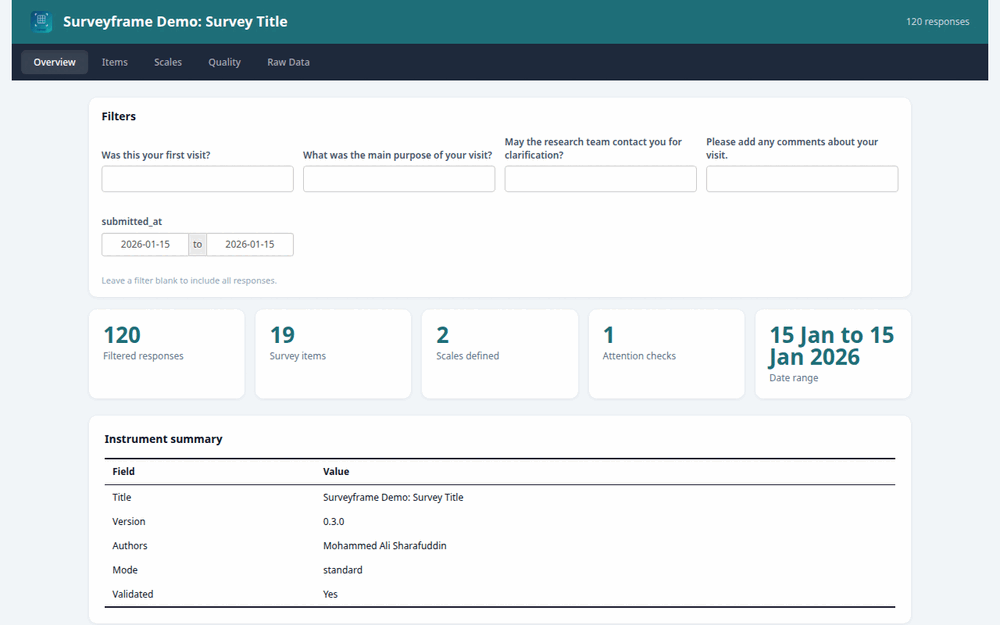
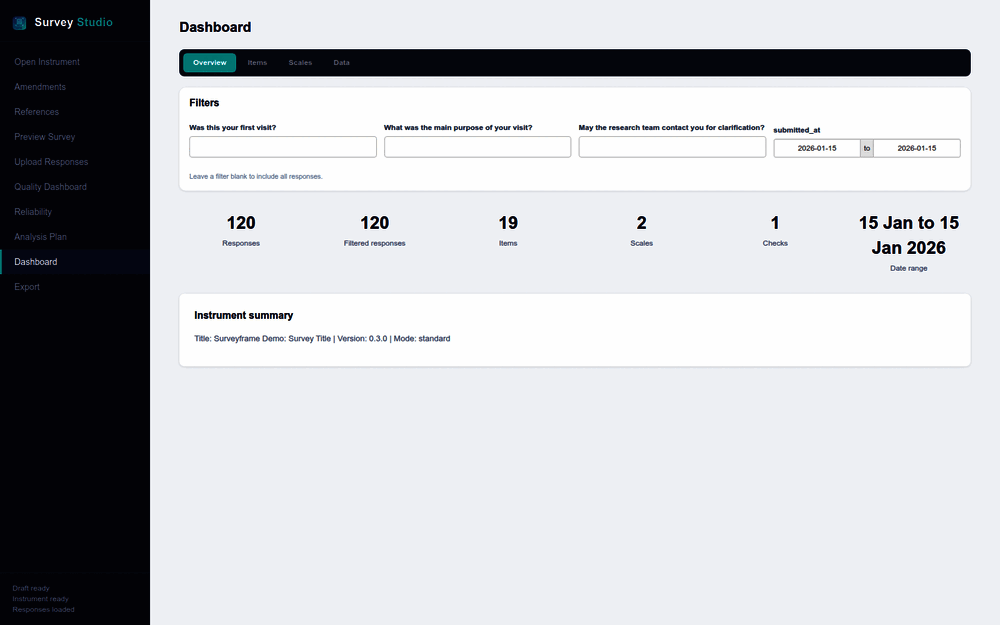
Docs: the GUI guide's dashboard figure is Studio's Dashboard screen

diff --git a/NEWS.md b/NEWS.md
@@ -796,6 +796,9 @@ style.
   textarea question with 12 or fewer distinct answers was offered as a
   filter, as `open_comment` in the `input_types` demo was.
 
+* **The SurveyStudio guide shows Studio's Dashboard screen**, with its
+  filters, in place of the retired dashboard app.
+
 * **`launch_dashboard()` opens Studio's Dashboard screen.** It and
   `launch_dashboard_demo()` are superseded by `launch_studio(screen =
   "dashboard")`, and the separate dashboard app is removed.
